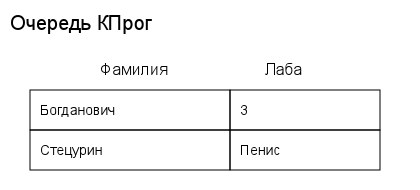
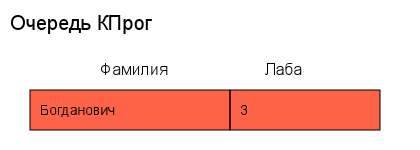
kprog queue done

Changed region(s): [[0.0619, 0.32, 0.9286, 0.9067], [0.0, 0.0533, 0.3714, 0.24], [0.2167, 0.32, 0.4024, 0.4]]

diff --git a/src/delayedMsgs.js b/src/delayedMsgs.js
@@ -1,4 +1,4 @@
-const { getAllUsers, getKProgQueue } = require('./database/database');
+const { getAllUsers, getKProgQueue, setPriority, clearKProg } = require('./database/database');
 const cron = require('node-cron');
 const { createSignButton, kprogStatusKeyboard } = require('./keyboards');
 const { lessons } = require ('./lessons/lessons');
@@ -16,10 +16,19 @@ function sendMessages(bot, dateTime, lesson, type) {
     const [year, month, day] = date.split('-').map(Number);
     const [hour, minute] = time.split(':').map(Number);
 
+    
+
     // Расписание cron для определённого времени в Минском часовом поясе
     cron.schedule(`${minute} ${hour} ${day} ${month} *`, async () => {
+        await clearKProg()
+
         const currentDate = new Date();
+        const configData = await fs.promises.readFile(configPath, 'utf-8');
+        const config = JSON.parse(configData);
         
+        config.isKProgEnd = false;
+
+        await fs.promises.writeFile(configPath, JSON.stringify(config, null, 4));
         // Проверяем, чтобы дата совпадала с запланированной
         if (
             currentDate.getFullYear() === year &&
@@ -56,13 +65,19 @@ function sendEndMessage(bot, dateTime) {
 
     cron.schedule(`${minute} ${hour} ${day} ${month} *`, async () => {
         const currentDate = new Date();
-        const data = await fs.promises.readFile(configPath, 'utf-8');
-        const config = JSON.parse(data);
+        
+        const configData = await fs.promises.readFile(configPath, 'utf-8');
+        const config = JSON.parse(configData);
         config.KProgLessonType--;
         if (config.KProgLessonType < 0) {
             config.KProgLessonType = 2;
         }
-
+        config.isKProgEnd = true;
+        
+        const data = await getKProgQueue();
+        for (let user of data) {
+            setPriority(user.tg_id, "Зелёный");
+        }
         
         await fs.promises.writeFile(configPath, JSON.stringify(config, null, 4));
         // Проверяем, чтобы дата совпадала с запланированной
@@ -71,8 +86,6 @@ function sendEndMessage(bot, dateTime) {
             currentDate.getMonth() + 1 === month &&
             currentDate.getDate() === day
         ) {
-            const data = await getKProgQueue();
-
             for (const user of data) {
                 const userId = user.tg_id;
 

diff --git a/src/commands.js b/src/commands.js
@@ -2,7 +2,7 @@ const { regKeyboard, menuKeyboard, returnToMenuKeyboard, queueKeyboard, returnTo
 
 const { InputFile } = require('grammy');
 const { students } = require('./students/students');
-const { insertIntoDatabase, isRegistered, getInfoById, getAllUsers, insertToKProg, getKProgQueue, isInQueue } = require('./database/database');
+const { insertIntoDatabase, isRegistered, getInfoById, getAllUsers, insertToKProg, getKProgQueue, setPriority } = require('./database/database');
 const { showMenu } = require('./menu');
 const { generatePriorityTable, generateQueueTable } = require('./tables/tables') 
 const { lessons } = require ('./lessons/lessons')
@@ -245,6 +245,7 @@ function commands(bot) {
     bot.callbackQuery('passed', async (ctx) => {
         await ctx.answerCallbackQuery();
 
+        await setPriority(ctx.from.id.toString(), "Зелёный");
         await ctx.callbackQuery.message.editText(`*🎉 Поздравляю со сдачей\\!*\n\n_🟩 Вам выдан зелёный приоритет_`, {
             parse_mode: 'MarkdownV2',
             reply_markup: kprogPriorityKeyBoard
@@ -254,6 +255,7 @@ function commands(bot) {
     bot.callbackQuery('notPassed', async (ctx) => {
         await ctx.answerCallbackQuery();
 
+        await setPriority(ctx.from.id.toString(), "Жёлтый");
         await ctx.callbackQuery.message.editText(`*😔 Ничего страшного\\!*\nНа следующей паре вы сможете сдать чуть первее других\n\n🟨 _Вам выдан жёлтый приоритет_`, {
             parse_mode: 'MarkdownV2',
             reply_markup: kprogPriorityKeyBoard
@@ -263,6 +265,7 @@ function commands(bot) {
     bot.callbackQuery('notPsbl', async (ctx) => {
         await ctx.answerCallbackQuery();
 
+        await setPriority(ctx.from.id.toString(), "Красный");
         await ctx.callbackQuery.message.editText(`*☹ Очень жаль, что вы не успели\\.*\nНа следующей паре вы сможете сдать лабораторную работу одним\\(\\-ой\\) из первых\n\n_🟥 Вам выдан красный приоритет_`, {
             parse_mode: 'MarkdownV2',
             reply_markup: kprogPriorityKeyBoard

diff --git a/src/tables/tables.js b/src/tables/tables.js
@@ -1,5 +1,6 @@
 const { createCanvas } = require('canvas');
 const fs = require('fs');
+const config = require('../config.json');
 
 async function generatePriorityTable(data) {
     const width = 420;  // Ширина холста
@@ -113,7 +114,27 @@ async function generateQueueTable(data) {
     data.forEach((item, i) => {
         startY += rowHeight;
 
-
+        if (config.isKProgEnd) {
+            let priorityColor;
+            switch (item.priority) {
+                case 'Красный':
+                    priorityColor = '#FF6347'; // Красный
+                    break;
+                case 'Жёлтый':
+                    priorityColor = '#FFD700'; // Жёлтый
+                    break;
+                case 'Зелёный':
+                    priorityColor = '#32CD32'; // Зелёный
+                    break;
+                case 'Санкции':
+                    priorityColor = '#8A2BE2'; // Фиолетовый
+                    break;
+                default:
+                    priorityColor = '#FFFFFF'; // Белый по умолчанию
+            }
+            ctx.fillStyle = priorityColor;
+            ctx.fillRect(startX, startY, colWidthSurname + colWidthLabs, rowHeight);
+        }
         // Цвет фона строки
         // ctx.fillStyle = priorityColor;
         // ctx.fillRect(startX, startY, colWidthSurname + colWidthLabs, rowHeight);

diff --git a/src/database/database.js b/src/database/database.js
@@ -104,4 +104,28 @@ async function insertToKProg(queue) {
     }
 }
 
-module.exports = { insertIntoDatabase, isRegistered, getInfoById, getAllUsers, insertToKProg, getKProgQueue, isInQueue }
+async function setPriority(id, priority) {
+    try {
+        // Запрос на обновление значения priority для записи с указанным tg_id
+        const updateQuery = 'UPDATE Users SET priority = ? WHERE tg_id = ?';
+        const updateKProgQuery = 'UPDATE KProg SET priority = ? WHERE tg_id = ?';
+        
+        // Выполняем запрос, подставляя новый приоритет и идентификатор tg_id
+        await con.query(updateQuery, [priority, id]);
+        await con.query(updateKProgQuery, [priority, id]);
+        console.log(`Priority для пользователя с id ${id} обновлён на ${newPriority}`);
+    } catch (err) {
+        console.error('Ошибка при обновлении priority:', err);
+    }
+}
+
+async function clearKProg() {
+    try {
+        await con.query("TRUNCATE TABLE KProg");
+        console.log(`Таблица KProg очищена`);
+    } catch (err) {
+        console.error('Ошибка при очистке KProg:', err);
+    }
+}
+
+module.exports = { insertIntoDatabase, isRegistered, getInfoById, getAllUsers, insertToKProg, getKProgQueue, isInQueue, setPriority, clearKProg }

diff --git a/src/lessons/shedules/KProgShedule.js b/src/lessons/shedules/KProgShedule.js
@@ -11,7 +11,7 @@ const KProgEnd = new Array();
 
 //test
 KProgShedule.push({
-    time: '2024-10-27 17:53',
+    time: '2024-10-27 20:12',
     type: 0
 });
 
@@ -69,7 +69,7 @@ KProgShedule.push({
 });
 
 // Тест
-KProgEnd.push("2024-10-27 19:12");
+KProgEnd.push("2024-10-27 20:13");
 KProgEnd.push('2024-10-28 15:20');
 KProgEnd.push('2024-11-04 15:20');
 KProgEnd.push('2024-11-08 11:55');
